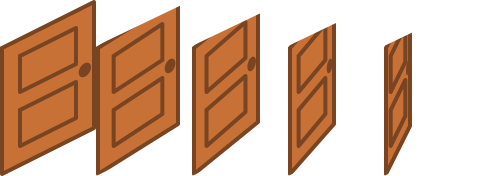
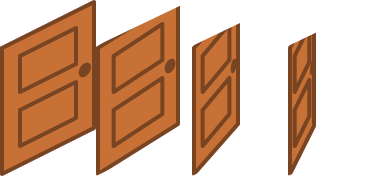
Fix tiles of X4, add door 3, use 4 frames for doors

diff --git a/src/objects/door.rb b/src/objects/door.rb
@@ -5,13 +5,14 @@ class Door < IsoGameObject
   TYPE_MAP = [
     [-28, -112],
     [-79, -128, true],
+    [-28, -120, true],
   ].freeze
 
   attr_reader :dest_scr, :dest_entr
 
   def initialize(type, dest_scr, dest_entr, col, row, layer, on_open)
     img_gap_x, img_gap_y, angled = TYPE_MAP[type - 1]
-    super(col, row, layer, Physics::UNIT, Physics::UNIT, "obj_door#{type}", Vector.new(img_gap_x, img_gap_y), 5, 1)
+    super(col, row, layer, Physics::UNIT, Physics::UNIT, "obj_door#{type}", Vector.new(img_gap_x, img_gap_y), 4, 1)
     @dest_scr = dest_scr
     @dest_entr = dest_entr
     @on_open = on_open
@@ -26,7 +27,7 @@ class Door < IsoGameObject
 
   def update(man)
     if @opening
-      animate_once([1, 2, 3, 4], 7)
+      animate_once([1, 2, 3], 7)
     elsif man.bounds.intersect?(bounds)
       @can_open = true
       if KB.key_pressed?(Gosu::KB_Z)
